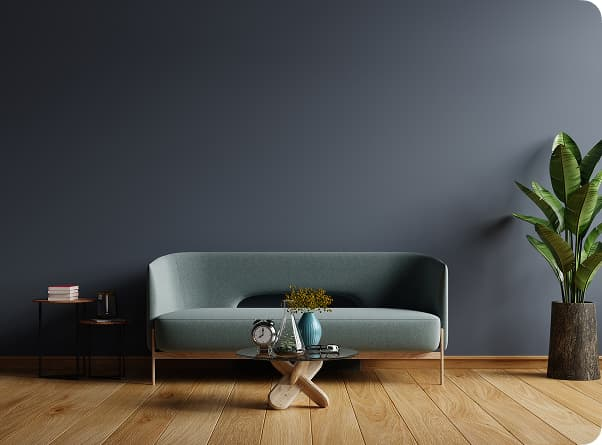
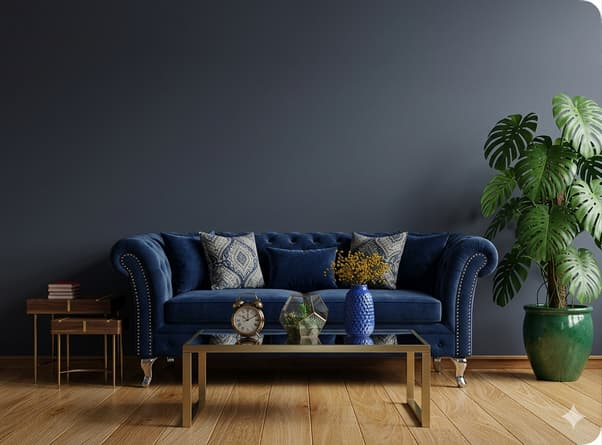
fix

diff --git a/src/app/components/shared/ModalWindow.jsx b/src/app/components/shared/ModalWindow.jsx
@@ -1,0 +1,193 @@
+"use client";
+
+import { X } from "lucide-react";
+import { useEffect } from "react";
+
+const priceData = [
+  {
+    category: "Couch and sofa",
+    items: [
+      { name: "2 seats", price: 89 },
+      { name: "3 seats", price: 109 },
+      { name: "4 seats", price: 119 },
+      { name: "5 seats", price: 139 },
+      { name: "6 seats", price: 149 },
+      { name: "7 seats", price: 159 },
+    ],
+  },
+  {
+    category: "Mattress",
+    items: [
+      { name: "King", price: 99 },
+      { name: "Queen", price: 89 },
+      { name: "Full", price: 79 },
+      { name: "Twin XL", price: 69 },
+      { name: "Twin", price: 59 },
+    ],
+  },
+  {
+    category: "Other",
+    items: [
+      { name: "Loveseat", price: 89 },
+      { name: "Armchair", price: 39 },
+      { name: "Ottoman", price: 25 },
+      { name: "Chairs / barstool", price: 19, unit: "each" },
+    ],
+  },
+];
+
+export default function ModalWindow({ isOpen, onClose }) {
+  // Prevent body scroll when modal is open
+  useEffect(() => {
+    if (isOpen) {
+      document.body.style.overflow = "hidden";
+    } else {
+      document.body.style.overflow = "unset";
+    }
+
+    return () => {
+      document.body.style.overflow = "unset";
+    };
+  }, [isOpen]);
+
+  if (!isOpen) return null;
+
+  const handleBackdropClick = (e) => {
+    if (e.target === e.currentTarget) {
+      onClose();
+    }
+  };
+
+  return (
+    <div
+      className="fixed inset-0 bg-black/50 flex items-center justify-center p-4 z-50"
+      onClick={handleBackdropClick}
+      role="presentation"
+    >
+      {/* Modal Container */}
+      <div
+        className="bg-white rounded-lg shadow-xl max-h-[90vh] overflow-y-auto w-full max-w-2xl transform transition-transform duration-300 scale-100 animate-scale-in"
+        role="dialog"
+        aria-modal="true"
+        aria-labelledby="modal-title"
+      >
+        {/* Header */}
+        <div className="sticky top-0 bg-white border-b border-gray-200 px-6 py-4 flex items-center justify-between">
+          <h2 id="modal-title" className="text-2xl font-bold text-gray-800">
+            Price List
+          </h2>
+          <button
+            onClick={onClose}
+            className="p-1 hover:bg-gray-100 rounded-full transition-colors"
+            aria-label="Close modal"
+          >
+            <X size={24} className="text-gray-600" />
+          </button>
+        </div>
+
+        {/* Content */}
+        <div className="px-6 py-8">
+          {/* Desktop Version */}
+          <div className="hidden md:block">
+            <table className="w-full">
+              <thead>
+                <tr className="border-b-2 border-amber-600">
+                  <th className="text-left py-3 px-4 font-semibold text-gray-700">
+                    Product
+                  </th>
+                  <th className="text-right py-3 px-4 font-semibold text-gray-700">
+                    Price
+                  </th>
+                </tr>
+              </thead>
+              <tbody>
+                {priceData.map((section, sectionIdx) => (
+                  <tbody key={`section-${sectionIdx}`}>
+                    {/* Section Header */}
+                    <tr className="bg-gray-50">
+                      <td
+                        colSpan="2"
+                        className="py-4 px-4 font-bold text-lg text-amber-600 uppercase tracking-wide"
+                      >
+                        {section.category}
+                      </td>
+                    </tr>
+                    {/* Section Items */}
+                    {section.items.map((item, itemIdx) => (
+                      <tr
+                        key={`item-${sectionIdx}-${itemIdx}`}
+                        className="border-b border-gray-200 hover:bg-gray-50 transition-colors"
+                      >
+                        <td className="py-3 px-4 text-gray-700">
+                          {item.name}
+                          {item.unit && (
+                            <span className="text-sm text-gray-500">
+                              {" "}
+                              ({item.unit})
+                            </span>
+                          )}
+                        </td>
+                        <td className="py-3 px-4 text-right font-semibold text-gray-800">
+                          ${item.price}
+                        </td>
+                      </tr>
+                    ))}
+                  </tbody>
+                ))}
+              </tbody>
+            </table>
+          </div>
+
+          {/* Mobile Version */}
+          <div className="md:hidden space-y-6">
+            {priceData.map((section, sectionIdx) => (
+              <div key={`mobile-section-${sectionIdx}`}>
+                <h3 className="text-lg font-bold text-amber-600 uppercase tracking-wide mb-3">
+                  {section.category}
+                </h3>
+                <div className="space-y-2">
+                  {section.items.map((item, itemIdx) => (
+                    <div
+                      key={`mobile-item-${sectionIdx}-${itemIdx}`}
+                      className="flex items-center justify-between p-3 bg-gray-50 rounded-lg hover:bg-gray-100 transition-colors"
+                    >
+                      <span className="text-gray-700">
+                        {item.name}
+                        {item.unit && (
+                          <span className="text-sm text-gray-500">
+                            {" "}
+                            ({item.unit})
+                          </span>
+                        )}
+                      </span>
+                      <span className="font-semibold text-gray-800">
+                        ${item.price}
+                      </span>
+                    </div>
+                  ))}
+                </div>
+              </div>
+            ))}
+          </div>
+        </div>
+      </div>
+
+      <style jsx>{`
+        @keyframes scale-in {
+          from {
+            transform: scale(0.95);
+            opacity: 0;
+          }
+          to {
+            transform: scale(1);
+            opacity: 1;
+          }
+        }
+
+        .animate-scale-in {
+          animation: scale-in 0.3s ease-out;
+        }
+      `}</style>
+    </div>
+  );
+}

diff --git a/src/app/components/layout/Footer.jsx b/src/app/components/layout/Footer.jsx
@@ -3,7 +3,7 @@ import Image from "next/image";
 
 export default function Footer() {
   return (
-    <section className="max-w-360 w-full flex flex-col items-center justify-center overflow-hidden">
+    <footer className="max-w-360 w-full flex flex-col items-center justify-center overflow-hidden">
       <div className="w-full min-h-115.5 py-20 px-5 sm:px-10 md:px-20 bg-[#F7F7F7] flex flex-col items-center justify-center">
         <div className="w-full h-full grow grid grid-cols-1 md:grid-cols-2 gap-20 items-center justify-center">
           {/* Google map */}
@@ -60,9 +60,8 @@ export default function Footer() {
               </div>
 
               {/* Social media links */}
-              <div className="min-h-fit flex flex-col gap-4">
+              <div className="min-h-fit flex flex-col gap-4 mb-10">
                 <p className="mb-2 text-amber-600 text-xl">Follow Us</p>
-
                 {/* Facebook */}
                 <a
                   href="https://www.facebook.com/profile.php?id=61576447468204"
@@ -78,7 +77,6 @@ export default function Footer() {
                   />
                   <p>Facebook</p>
                 </a>
-
                 {/* Twitter-X */}
                 {/* <a
                 href=""
@@ -94,7 +92,6 @@ export default function Footer() {
                 />
                 <p>Twitter</p>
               </a> */}
-
                 {/* Instagram */}
                 <a
                   href="https://www.instagram.com/novafiberllc/"
@@ -110,6 +107,8 @@ export default function Footer() {
                   />
                   <p>Instagram</p>
                 </a>
+
+                <p className="mb-2 mt-5 text-amber-600 text-xl">Text Us</p>
 
                 {/* WhatsApp */}
                 <a
@@ -127,12 +126,18 @@ export default function Footer() {
               </div>
             </div>
             <div className="w-full flex flex-col items-center justify-between gap-5">
-              <a href="">Privacy policy</a>
+              <a
+                href="https://sites.google.com/view/novafiberllcprivacypolicy/privacy-policy"
+                target="_blank"
+                rel="noopener noreferrer"
+              >
+                Privacy policy
+              </a>
               <p>&copy; {new Date().getFullYear()} NovaFiber LLC.</p>
             </div>
           </div>
         </div>
       </div>
-    </section>
+    </footer>
   );
 }

diff --git a/src/app/components/layout/Features.jsx b/src/app/components/layout/Features.jsx
@@ -1,8 +1,12 @@
 "use client";
 
+import { useState } from "react";
 import { MoveRight } from "lucide-react";
+import ModalWindow from "../shared/ModalWindow";
 
 export default function Features() {
+  const [isModalOpen, setIsModalOpen] = useState(false);
+
   return (
     <section
       id="features"
